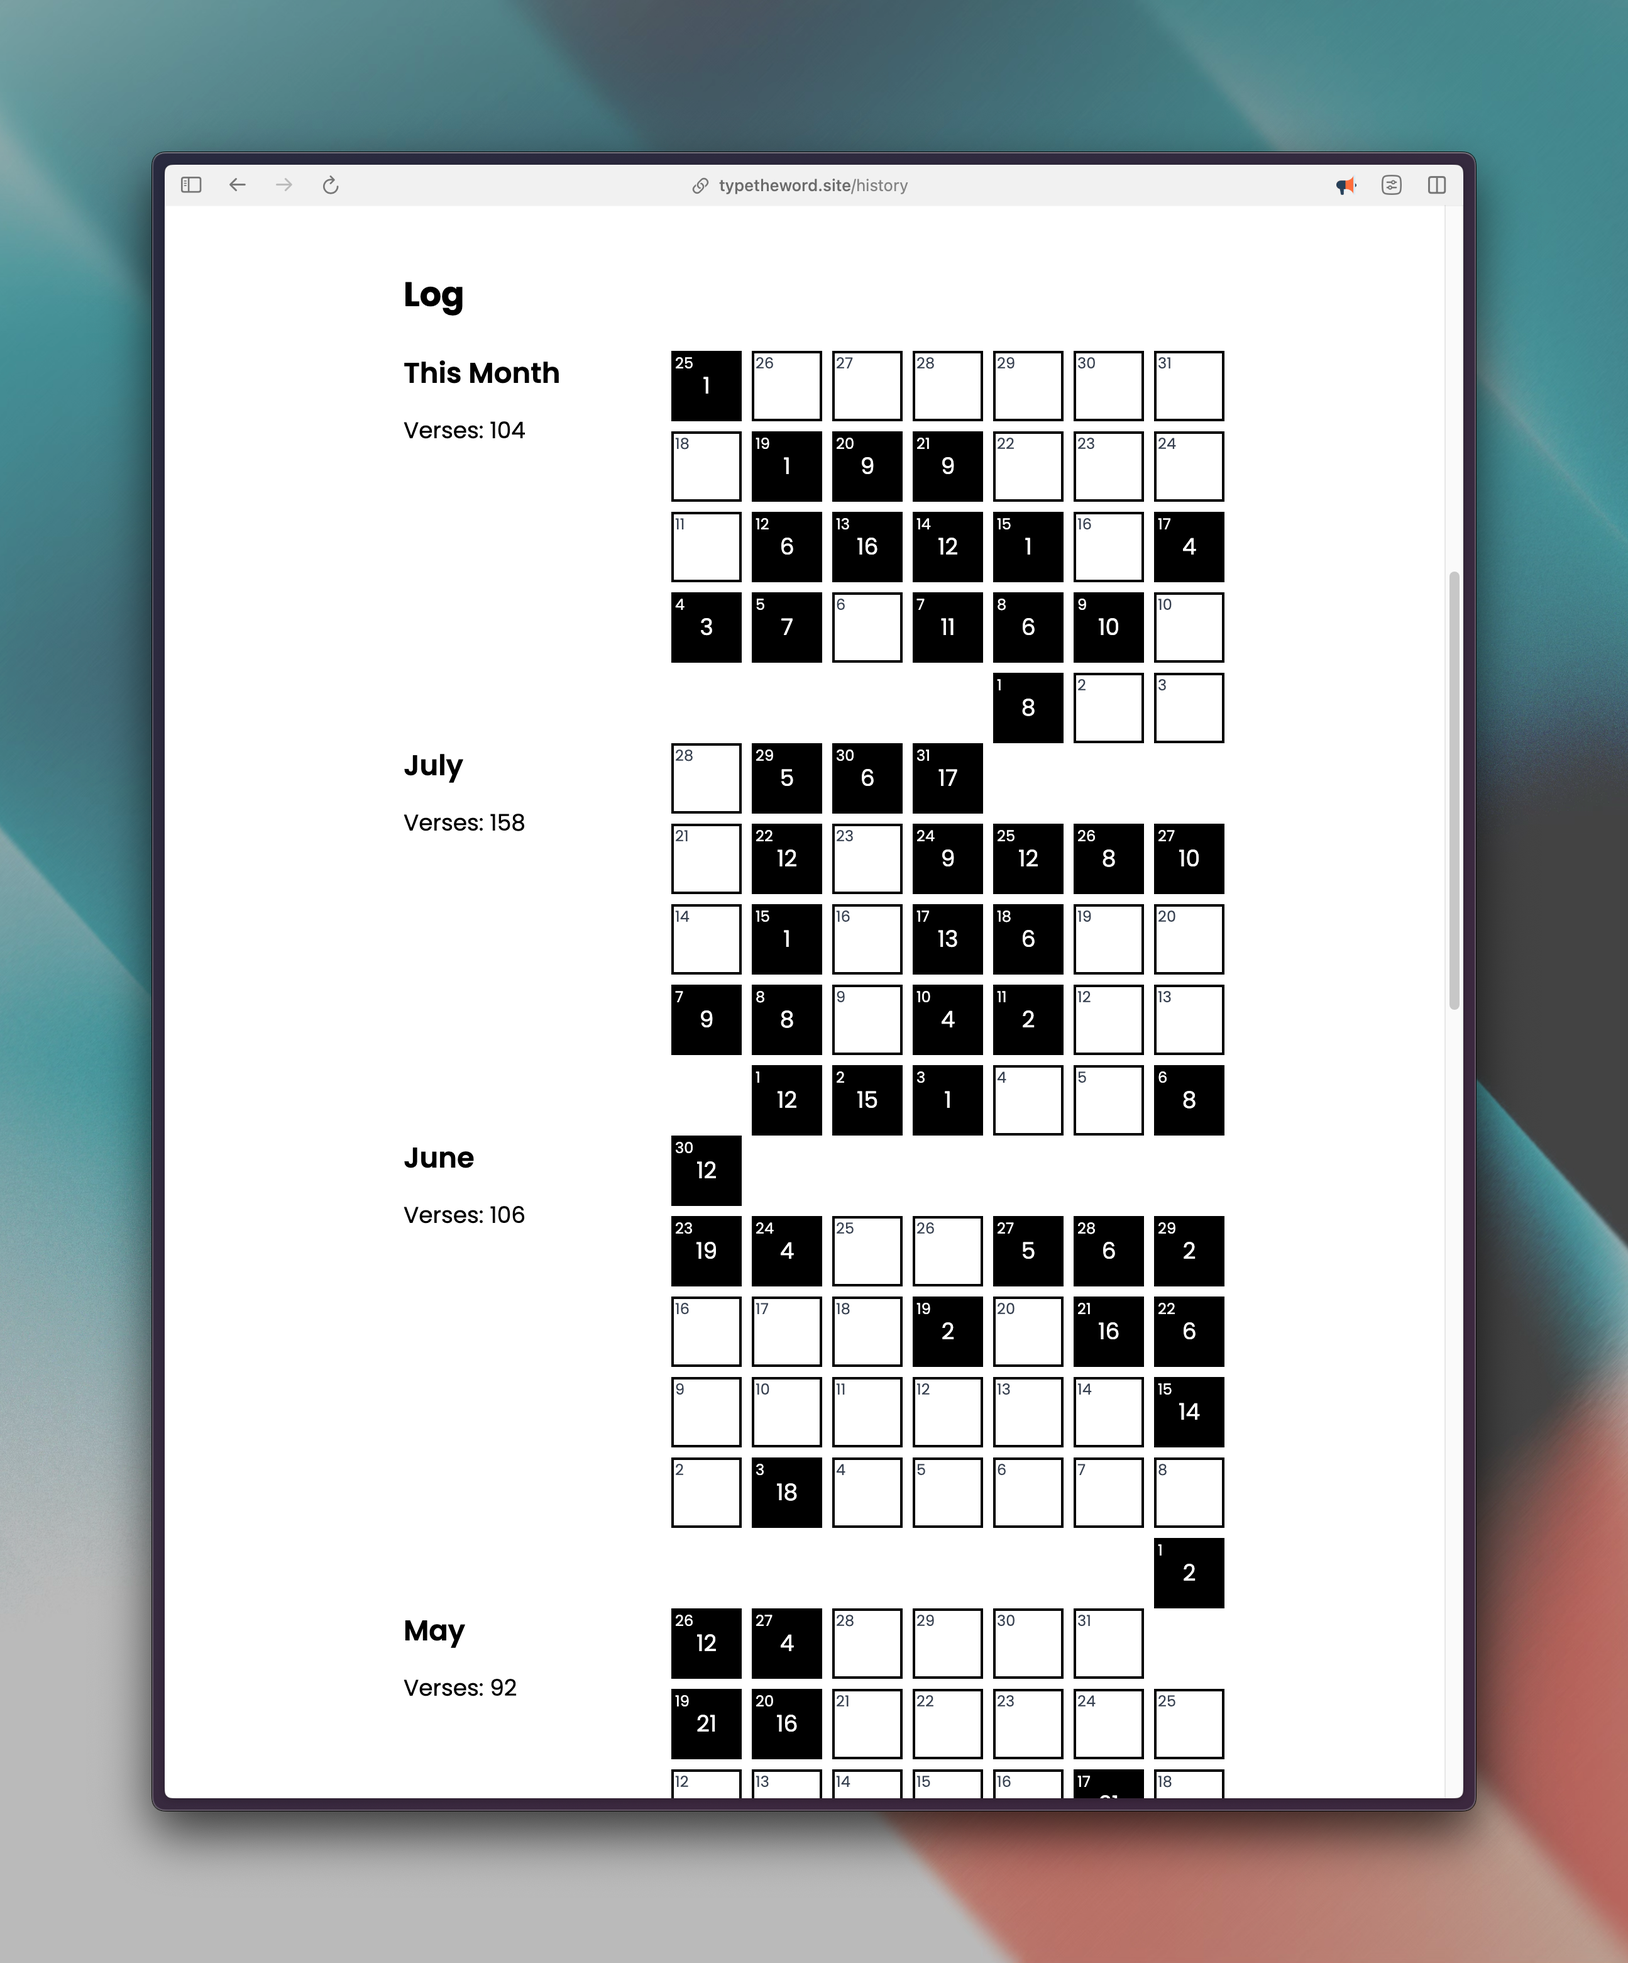
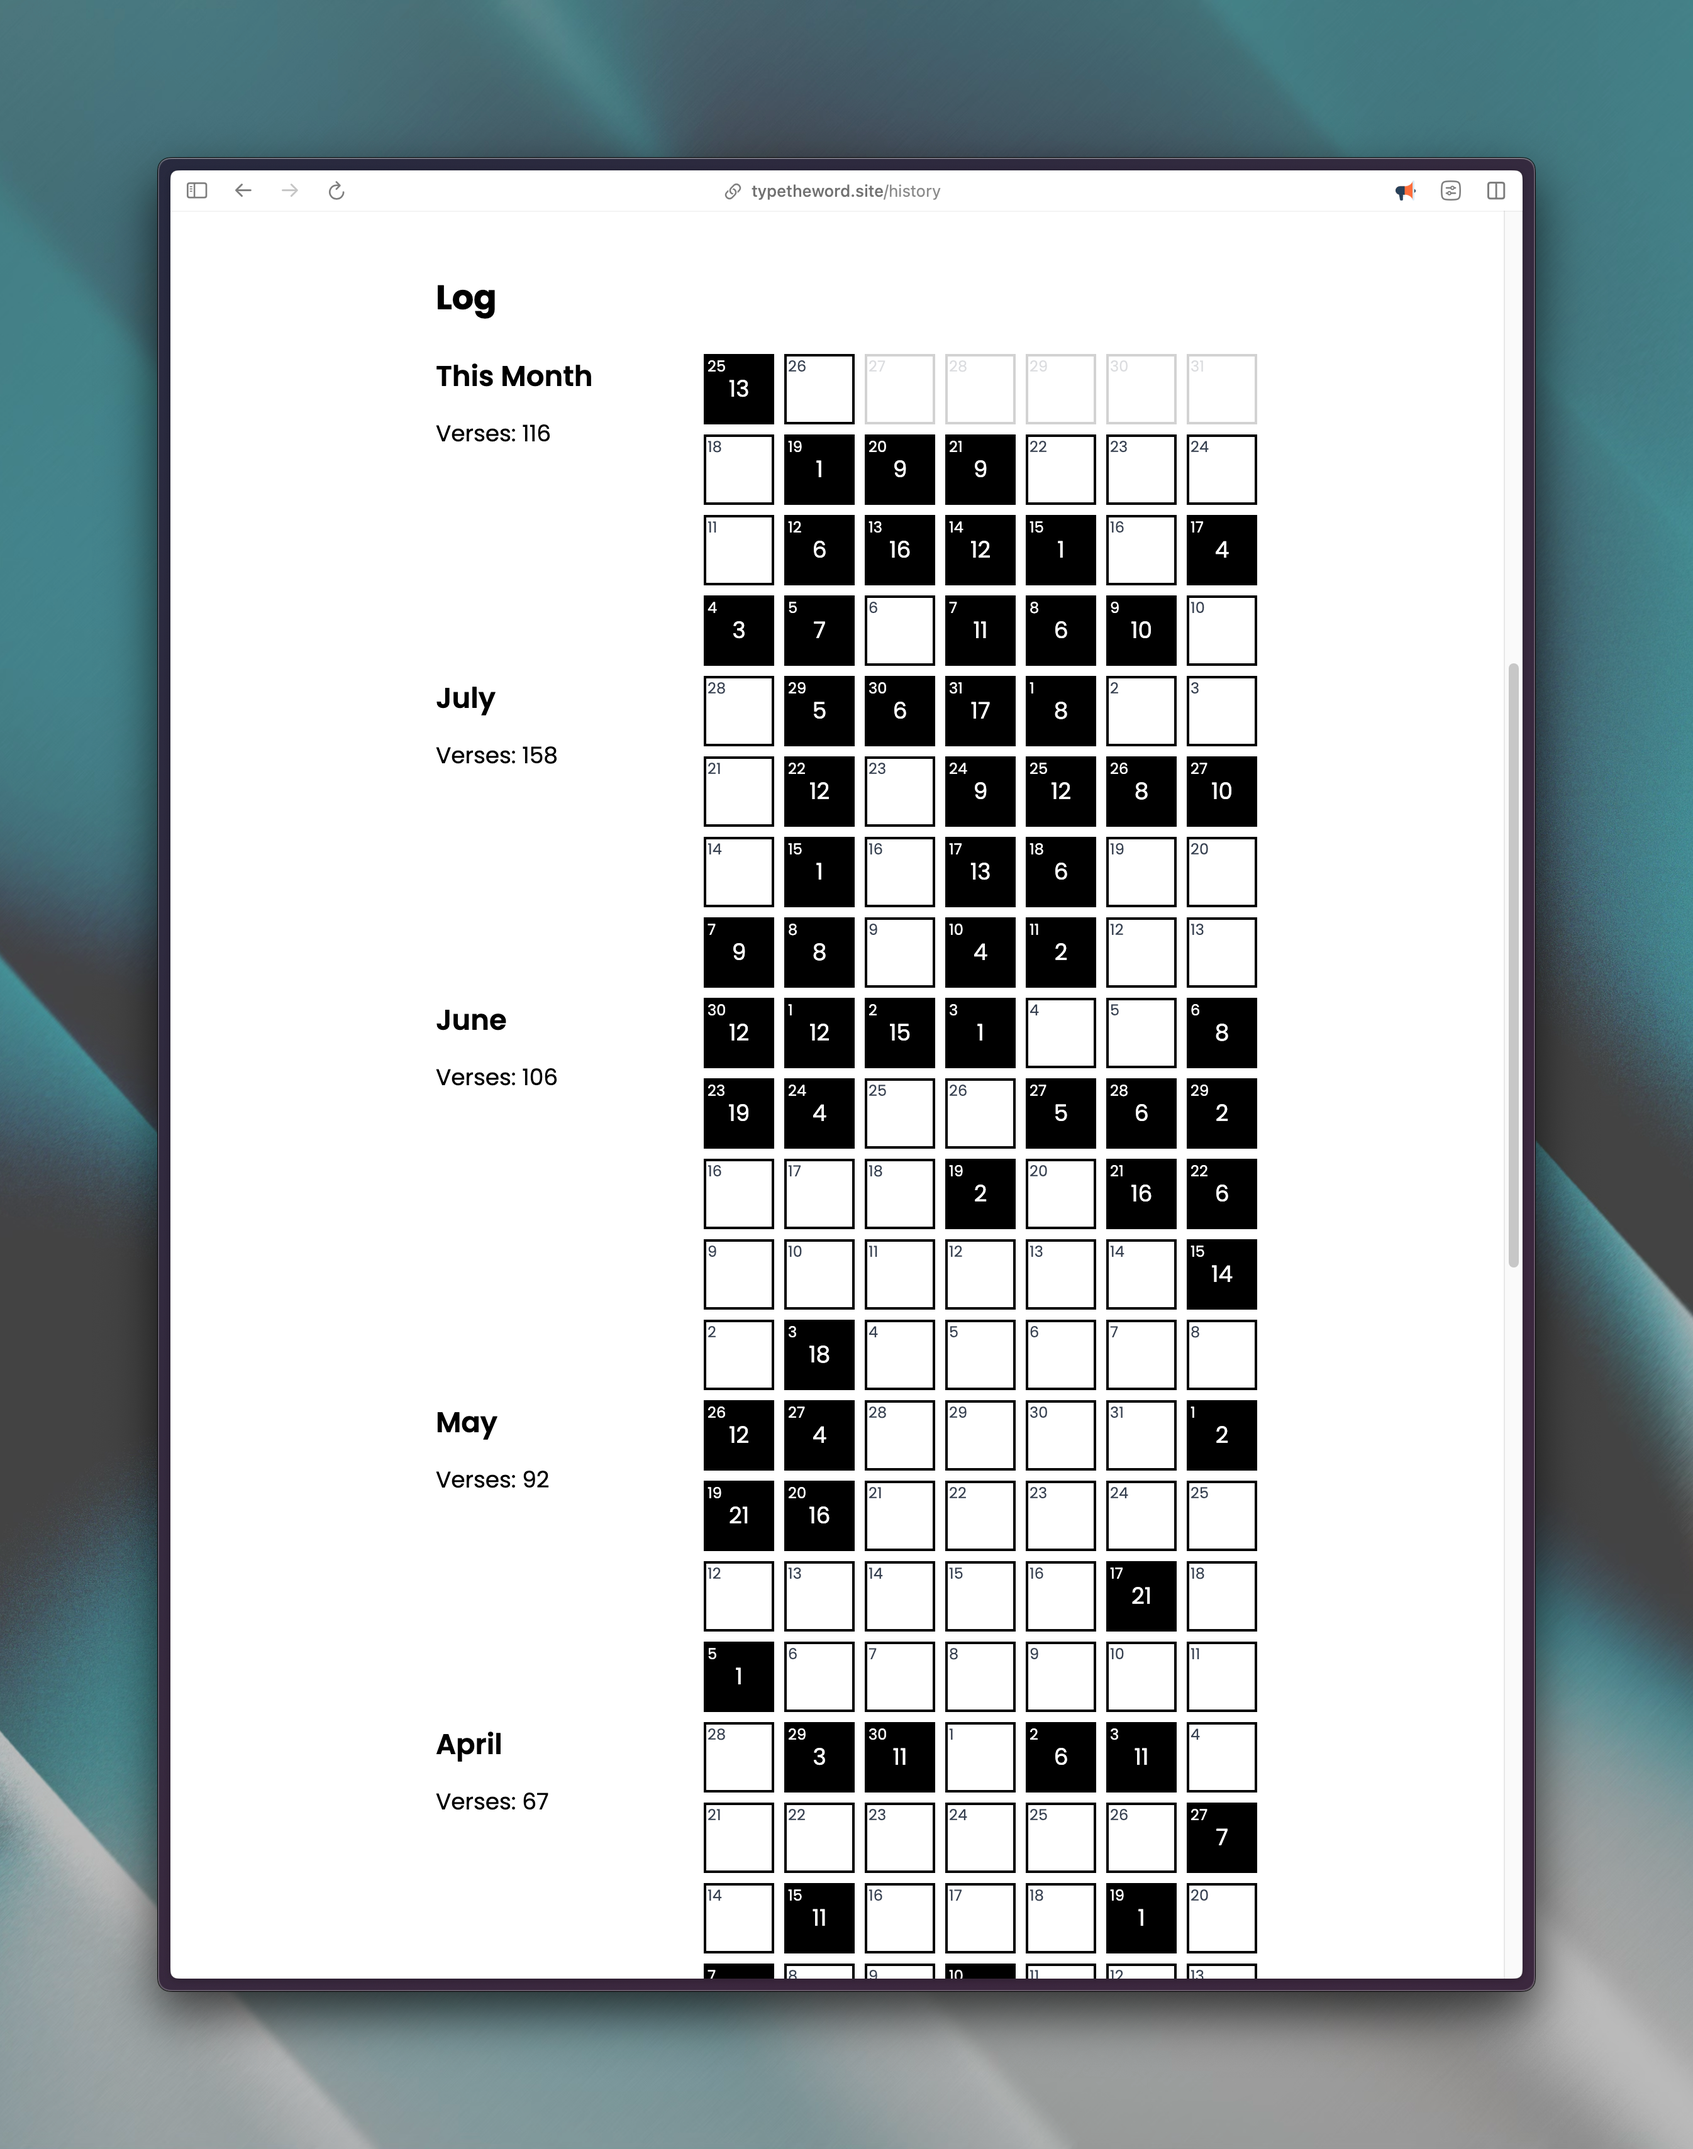
feat: update changlog image for Log section

diff --git a/src/app/(marketing)/changelog/page.tsx b/src/app/(marketing)/changelog/page.tsx
@@ -64,8 +64,8 @@ export default function Changelog() {
                                 src={'/assets/updated-log-v2.png'}
                                 alt={'Screen shot of the new "Log" section'}
                                 className="mt-3 border-2 border-primary"
-                                width={2590}
-                                height={3122}
+                                width={2684}
+                                height={3410}
                             />
                         </li>
                         <li>
